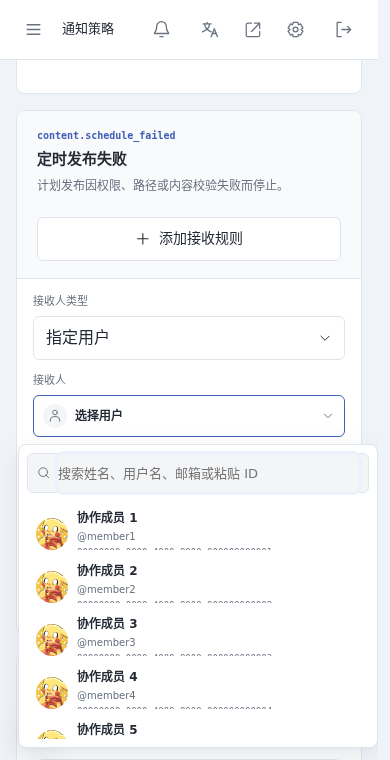
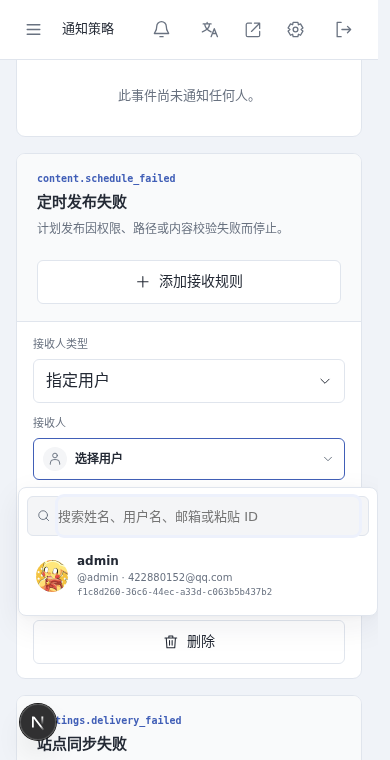
docs: record complete user picker rows

diff --git a/docs/handoff/notification-policy-user-picker-verification.md b/docs/handoff/notification-policy-user-picker-verification.md
@@ -1,6 +1,6 @@
 # 通知策略用户选择器与快速导航验收
 
-版本：notification-policy-user-picker-verification-3。日期：2026-11-11。对应[ADR0118](../decisions/0118-account-user-picker-and-policy-navigation.md)。
+版本：notification-policy-user-picker-verification-4。日期：2026-11-11。对应[ADR0118](../decisions/0118-account-user-picker-and-policy-navigation.md)。
 
 ## 交付范围
 
@@ -17,6 +17,7 @@
 - 修复用户弹层打开后重复刷新：翻译函数和打开回调不再作为不稳定的搜索副作用依赖，回调只在实际开关弹层时触发；输入不会在每次渲染后被清空。
 - 请求计数验证弹层首次打开只发送1次目录查询，输入`admin`后只新增1次过滤查询；分别等待900ms后请求数保持不变，搜索框内容保持`admin`。
 - 触发框固定为42px，与相邻下拉框实测41.69px误差小于1px；20用户夹具下桌面弹层高320px、结果区250px并独立滚动，移动端结果区不超过240px，弹层始终留在760px视口内。
+- 用户行不再设置54px最大高度或裁切内容，改为按名称、账号邮箱和稳定ID三行自然撑开；桌面与手机实测行高61px，`scrollHeight`不超过`clientHeight`，稳定ID底边保留至少5px内边距。
 - 1440px桌面显示“快速导航”，四个事件均可定位；390px无横向溢出，关闭后的用户弹层不占页面宽度。
 - 验收未点击保存策略，通知写请求为0，无`pageerror`或原生弹窗。
 - 临时QA会话已撤销。

diff --git a/docs/development/notifications.md b/docs/development/notifications.md
@@ -1,6 +1,6 @@
 # 通知系统与通知模板
 
-版本：notifications-13，2026-11-11。架构决定见 [ADR0113](../decisions/0113-notification-events-platforms-and-templates.md)、[ADR0117](../decisions/0117-html-notification-templates.md)与[ADR0118](../decisions/0118-account-user-picker-and-policy-navigation.md)。
+版本：notifications-14，2026-11-11。架构决定见 [ADR0113](../decisions/0113-notification-events-platforms-and-templates.md)、[ADR0117](../decisions/0117-html-notification-templates.md)与[ADR0118](../decisions/0118-account-user-picker-and-policy-navigation.md)。
 
 ## 概念
 
@@ -42,6 +42,8 @@
 选择器只在弹层实际打开时加载目录，并在查询变化后防抖一次；单纯的界面重渲染、加载状态变化或翻译函数重建不得再次请求同一列表。
 
 触发框与相邻下拉框保持同一高度。结果列表拥有独立滚动区并设置桌面与手机最大高度；用户数量增加时弹层不会继续向下增长，且必须保持在当前视口内。
+
+单个用户行按名称、账号信息和稳定 ID 的自然行高展开，不设置会裁切文字的固定高度；限高只作用于结果列表容器。
 
 桌面端右侧快速导航按事件生成，目录项与事件卡片使用同一标题；点击后定位并聚焦对应卡片。手机端不显示该目录，事件卡与接收规则改为单列。
 

diff --git a/docs/handoff/STATUS.md b/docs/handoff/STATUS.md
@@ -7,6 +7,7 @@
 - 共享 ADR0118、通知指南、验收、索引、基准摘要与截图已逐字节同步到双仓；前端完整检查370项、生产后台矩阵、真实后台和390px布局检查通过。
 - 用户弹层重复刷新已修复并做请求计数验收：首次打开目录请求1次，过滤查询1次，随后等待不再增长，输入不会被清空。
 - 用户选择触发框与相邻下拉框等高，弹层和结果列表增加桌面/手机限高及独立滚动；20用户夹具和移动视口验证通过。
+- 用户条目改为三行自然高度，不再裁切名称、账号或稳定 ID；桌面和手机实测行高61px且无内容溢出。
 - 仅文档同步，本仓库无业务代码、契约或迁移变化；未push。详见[验收](notification-policy-user-picker-verification.md)。
 
 ## 最新交付：消息总线业务事件（2026-11-11）
